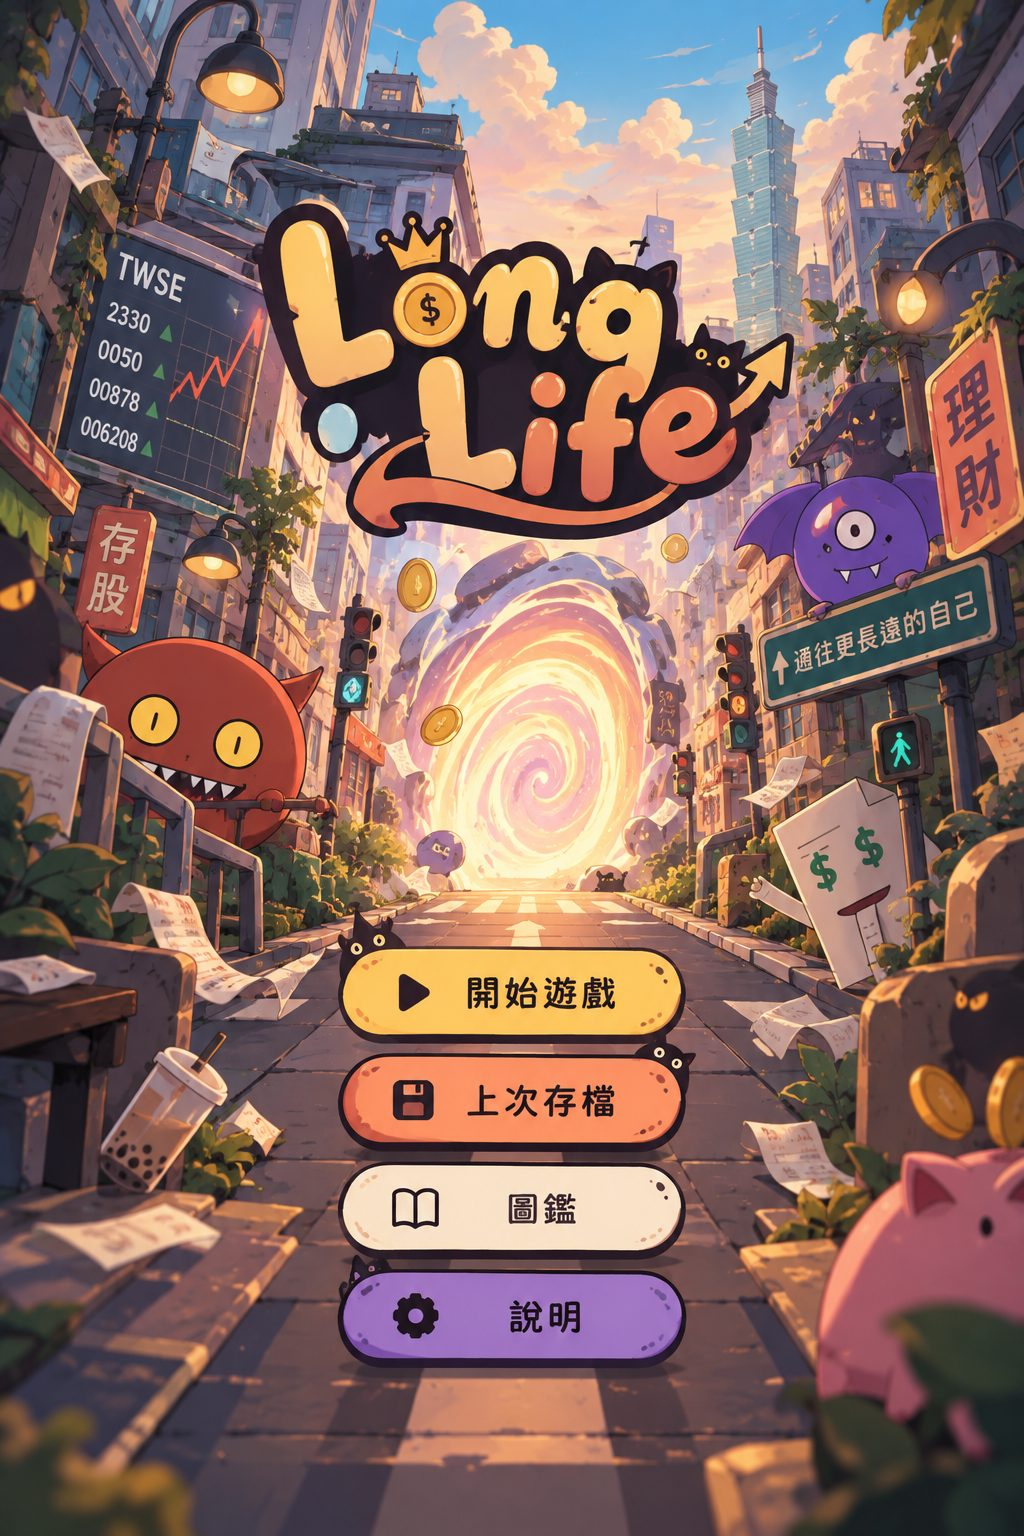
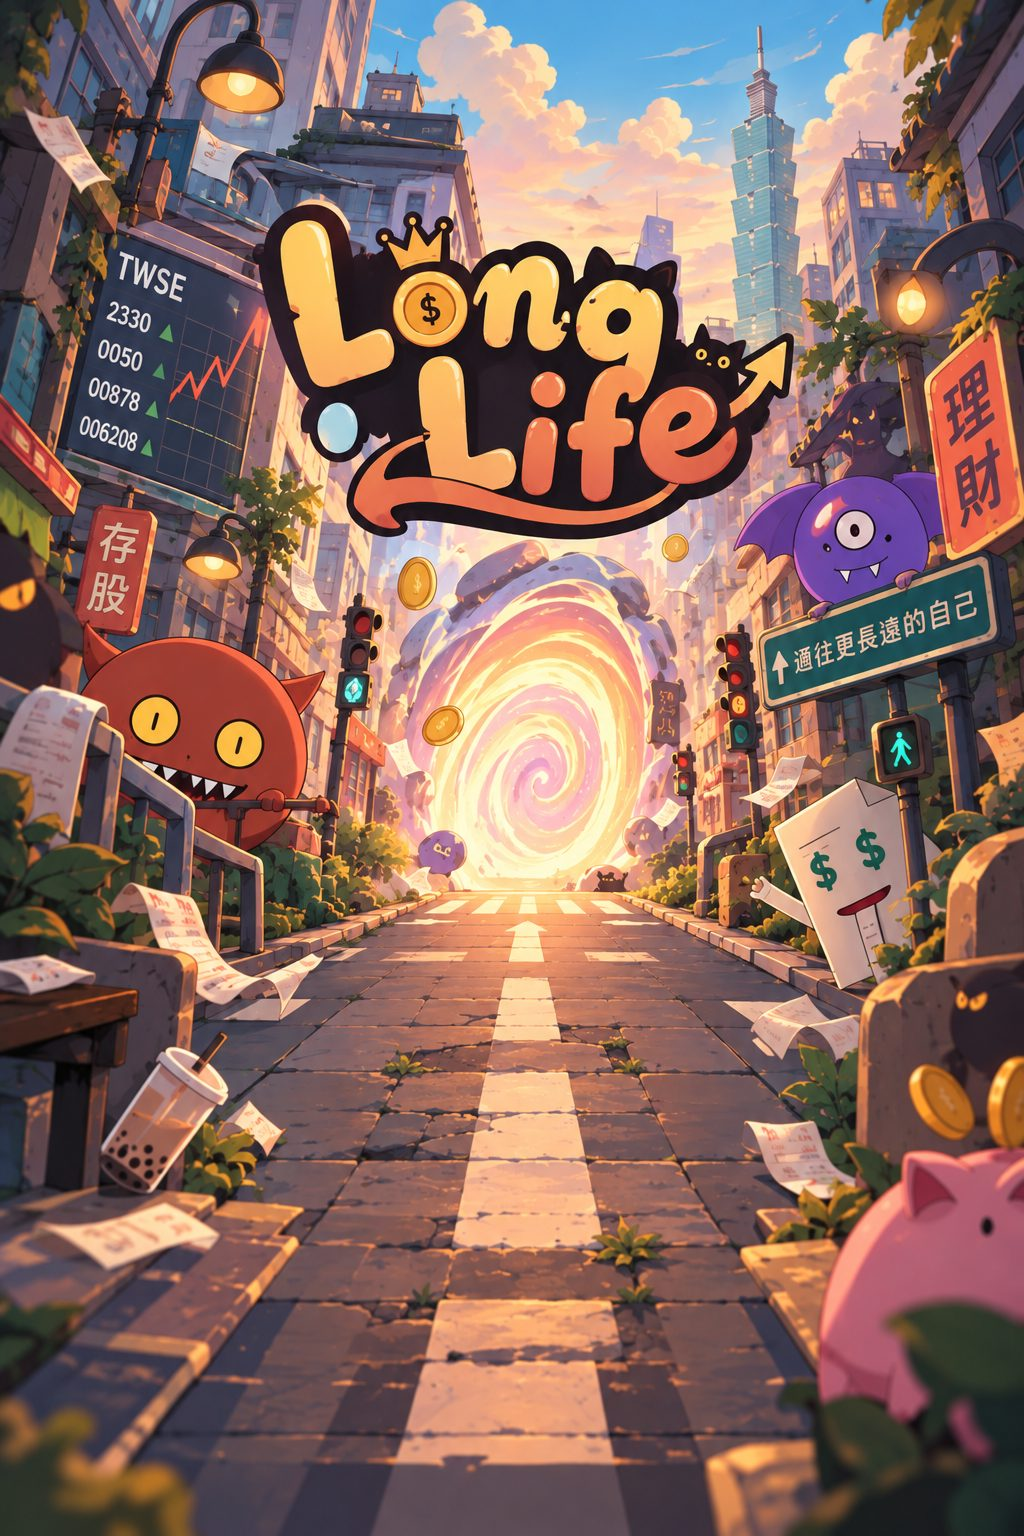
Title screen: clean art with real buttons
Claude-Session: https://claude.ai/code/session_01FZDKRG3vx7xBazad2Bx9cK

diff --git a/src/style.css b/src/style.css
@@ -236,18 +236,28 @@ h2 { font-size: 24px; color: var(--on-dark); text-shadow: 2px 2px 0 var(--ink); 
   position: absolute; left: 50%; top: 50%; height: 100%; aspect-ratio: 2 / 3; transform: translate(-50%, -50%);
   background: var(--art) center / 100% 100% no-repeat;
 }
-.title-stage .hot {
-  position: absolute; left: 33.2%; width: 33.8%; height: 5.9%; border-radius: 999px;
-  border: 0; padding: 0; background: transparent; cursor: pointer; transition: transform .12s, background .12s;
+.title-menu {
+  position: absolute; left: 50%; top: 61.5%; transform: translateX(-50%);
+  width: max(36%, 210px); display: flex; flex-direction: column; gap: clamp(10px, 1.6dvh, 18px);
 }
-.title-stage .hot:hover { background: rgba(255,255,255,.14); }
-.title-stage .hot:active { transform: scale(.96); background: rgba(0,0,0,.12); }
-.title-stage .hot:focus-visible { outline: 3px solid #fff; outline-offset: 2px; }
-.title-stage .b1 { top: 61.9%; }
-.title-stage .b2 { top: 68.9%; }
-.title-stage .b3 { top: 75.9%; }
-.title-stage .b4 { top: 82.9%; }
-.title-stage .hot.off { background: rgba(40,30,40,.55); cursor: not-allowed; }
+.tbtn {
+  --bg: #f7c948; --fg: #2a1a1f;
+  display: flex; align-items: center; gap: 12px; height: clamp(46px, 5.8dvh, 64px); padding: 0 22px;
+  border: 3px solid #2a1a1f; border-radius: 999px; background: var(--bg); color: var(--fg);
+  font: inherit; font-size: clamp(17px, 2.3dvh, 24px); font-weight: bold; letter-spacing: .12em; cursor: pointer;
+  box-shadow: 0 5px 0 #2a1a1f, inset 0 3px 0 rgba(255,255,255,.45), inset 0 -4px 0 rgba(0,0,0,.12);
+  transition: transform .1s, box-shadow .1s, filter .15s;
+}
+.tbtn svg { width: 1.2em; height: 1.2em; flex: none; color: #2a1a1f; }
+.tbtn span { flex: 1; text-align: center; margin-right: 1.2em; }
+.tbtn:hover { filter: brightness(1.07); transform: translateY(-1px); }
+.tbtn:active { transform: translateY(4px); box-shadow: 0 1px 0 #2a1a1f, inset 0 3px 0 rgba(255,255,255,.45); }
+.tbtn:focus-visible { outline: 3px solid #fff; outline-offset: 3px; }
+.tbtn:disabled { filter: grayscale(.85) brightness(.75); cursor: not-allowed; transform: none; }
+.tb-save { --bg: #f2875f; }
+.tb-codex { --bg: #fbf1df; }
+.tb-help { --bg: #9b6fd6; --fg: #fff; }
+.tb-help svg { color: #2a1a1f; }
 .title-screen .fine { position: absolute; left: 0; right: 0; bottom: max(10px, env(safe-area-inset-bottom)); margin: 0; text-align: center; color: #fff; opacity: .8; font-size: 12px; text-shadow: 0 1px 3px #000; }
 .sr-only { position: absolute; width: 1px; height: 1px; overflow: hidden; clip: rect(0 0 0 0); white-space: nowrap; }
 .theme-tabs { display: flex; gap: 6px; flex-wrap: wrap; justify-content: center; margin: 8px 0; }

diff --git a/src/ui/Screens.tsx b/src/ui/Screens.tsx
@@ -43,18 +43,34 @@ export function TopBar({ G, onDeck, onMenu }: { G: RunState; onDeck: () => void;
 
 // ───────────── title & theme select ─────────────
 
+const TITLE_ICONS = {
+  play: <path d="M7 4.5v15l12-7.5z" fill="currentColor" />,
+  save: <><rect x="4" y="4" width="16" height="16" rx="2.5" fill="currentColor" /><rect x="8" y="4" width="8" height="5" fill="#fff" /><rect x="7.5" y="13" width="9" height="5" rx="1" fill="#fff" /></>,
+  book: <path d="M12 6.5C9.5 4.8 6.5 4.5 3.5 5v13c3-.5 6-.2 8.5 1.5m0-13c2.5-1.7 5.5-2 8.5-1.5v13c-3-.5-6-.2-8.5 1.5m0-13v13" fill="none" stroke="currentColor" stroke-width="2" stroke-linejoin="round" />,
+  gear: <><path d="M12 2.5l2 2.6 3.2-.6.6 3.2 2.7 1.9-1.4 3 1.4 3-2.7 1.9-.6 3.2-3.2-.6-2 2.6-2-2.6-3.2.6-.6-3.2L3 15.6l1.4-3L3 9.6l2.7-1.9.6-3.2 3.2.6z" fill="currentColor" /><circle cx="12" cy="12.6" r="3.2" fill="#fff" /></>,
+};
+
 export function Title({ hasSave, onNew, onContinue, onCodex, onHelp }: {
   hasSave: boolean; onNew: () => void; onContinue: () => void; onCodex: () => void; onHelp: () => void;
 }) {
-  // The buttons are painted into the title art; these sit on top of them.
+  const items: [string, keyof typeof TITLE_ICONS, string, () => void, boolean][] = [
+    ['開始遊戲', 'play', 'tb-start', onNew, false],
+    ['上次存檔', 'save', 'tb-save', onContinue, !hasSave],
+    ['圖鑑', 'book', 'tb-codex', onCodex, false],
+    ['說明', 'gear', 'tb-help', onHelp, false],
+  ];
   return (
     <div class="title-screen" style={{ '--art': `url(${titleArt})` } as Record<string, string | number>}>
       <div class="title-stage">
         <h1 class="sr-only">Long Life</h1>
-        <button type="button" class="hot b1" aria-label="開始遊戲" onClick={onNew} />
-        <button type="button" class={`hot b2 ${hasSave ? '' : 'off'}`} aria-label="上次存檔" disabled={!hasSave} onClick={onContinue} />
-        <button type="button" class="hot b3" aria-label="圖鑑" onClick={onCodex} />
-        <button type="button" class="hot b4" aria-label="說明" onClick={onHelp} />
+        <nav class="title-menu">
+          {items.map(([label, icon, cls, fn, off]) => (
+            <button type="button" key={cls} class={`tbtn ${cls}`} disabled={off} onClick={fn}>
+              <svg viewBox="0 0 24 24" aria-hidden="true">{TITLE_ICONS[icon]}</svg>
+              <span>{label}</span>
+            </button>
+          ))}
+        </nav>
       </div>
       <p class="fine">v0.3 · 第 1 章「社會新鮮人」試玩版</p>
     </div>
